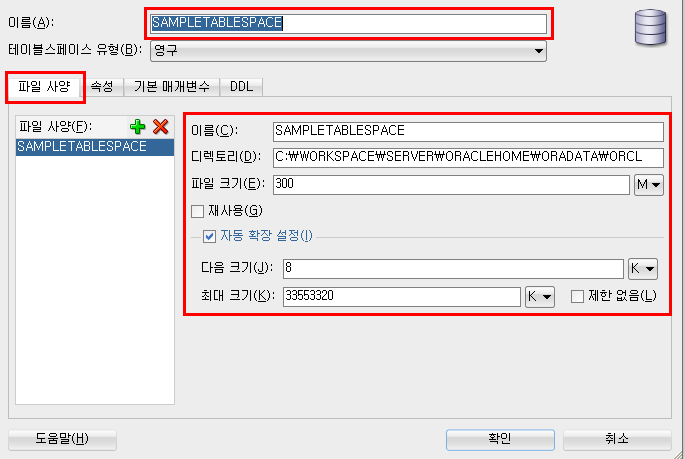
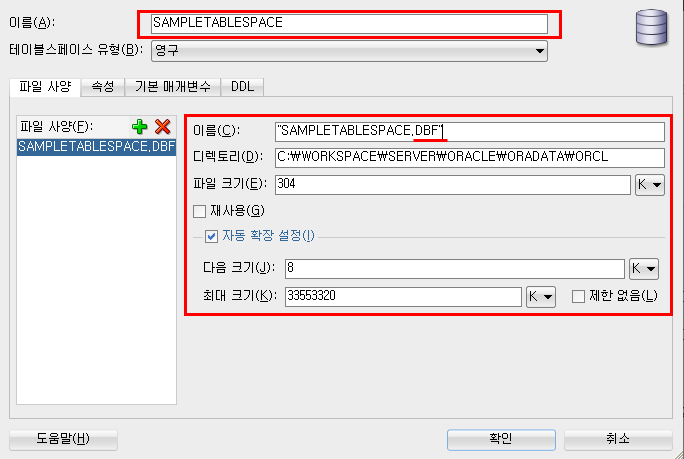
[Edit] SQLDeveloperWithOracle

diff --git a/_posts/2022-11-05-ServerProgramming-SQLDeveloperWithOracle.md b/_posts/2022-11-05-ServerProgramming-SQLDeveloperWithOracle.md
@@ -51,7 +51,7 @@ last_modified_at: 2022-11-05T08:00:00-10:00:00
 
   ![image](/assets/images/ServerProgramming/SQLDeveloper_CreateTableSpace_02.png){: width="40%" height="40%"}  
 
-  - 파일 사양 탭에서 필요한 정보들을 입력한다.  
+  - 파일 사양 탭에서 필요한 정보들을 입력한다. 이름 항목에는 <span style="color:red">.DBF 확장자를 꼭 붙여주자</span>  
 
   ![image](/assets/images/ServerProgramming/SQLDeveloper_CreateTableSpace_03.png){: width="70%" height="70%"}  
 
